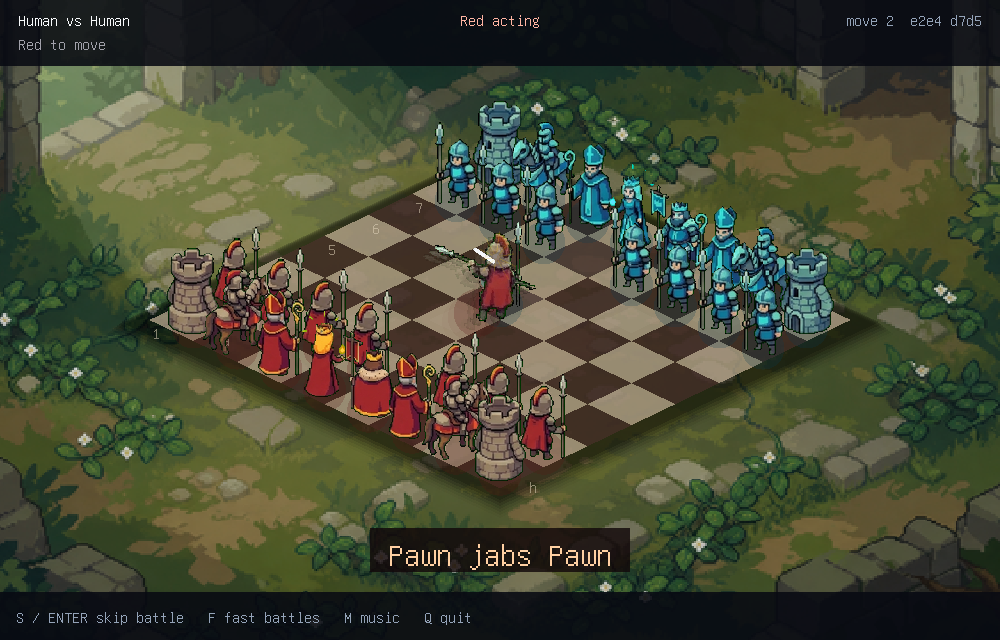
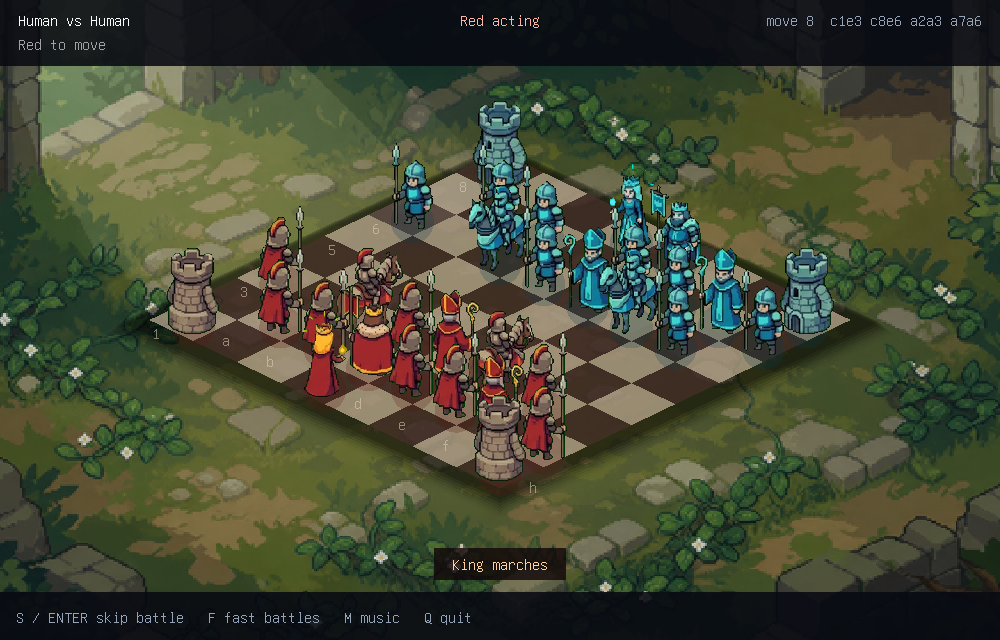
Replace demo GIF with gameplay still

Changed region(s): [[0.186, 0.1875, 0.806, 0.75], [0.372, 0.8125, 0.651, 0.9062]]

diff --git a/README.md b/README.md
@@ -7,9 +7,7 @@ Animated isometric chess for Linux terminals that implement the Kitty graphics
 protocol. Chess Bash is written in C and renders a software framebuffer directly
 in the terminal—no desktop window or GUI toolkit required.
 
-![Chess Bash gameplay](docs/media/chess-bash-demo.gif)
-
-[View the full-resolution gameplay screenshot.](docs/media/chess-bash-gameplay.png)
+![Chess Bash gameplay](docs/media/chess-bash-gameplay.png)
 
 Pieces march across the battlefield, captures become short animated duels, and
 each match has music, sound cues, screen shake, six environments, and a complete